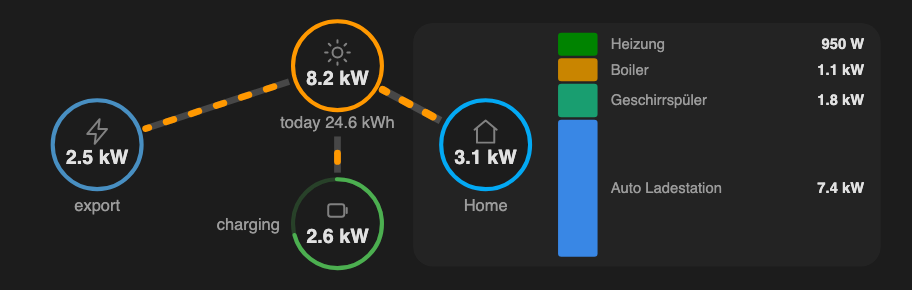
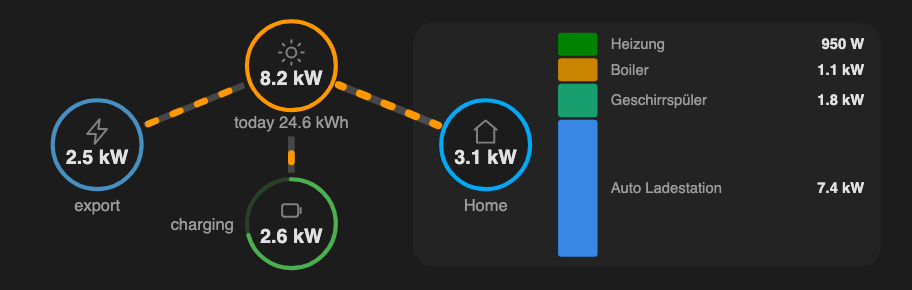
v0.9.1: centre pv/battery between grid and house
At cx=188 the generation column sat 28px right of true centre — 92px of
clear space to the grid ring but only 36px to the house. Move pv/battery
to cx=160, the exact midpoint, giving 64px on both sides.

Side benefit: the battery ring gains real separation from the group
panel, which read as crowded at the old position.

Verified no label collisions: battery sub-label clears the grid ring by
21.5px worst case ("Batterie"), the PV daily-yield label by 56px while
staying 39px clear of the panel.

Changed region(s): [[0.1535, 0.0621, 0.4912, 0.931]]

diff --git a/compact-power-flow-card.js b/compact-power-flow-card.js
@@ -58,7 +58,7 @@
  * current charge/discharge power (no percentage is displayed).
  */
 
-const VERSION = "0.9.0";
+const VERSION = "0.9.1";
 
 // Consumer-column palette, shared with power-pie-card (CVD-safe hue order —
 // do not reorder).
@@ -69,11 +69,14 @@ const PALETTE_DARK = ["#3987e5", "#199e70", "#c98500", "#008300", "#9085e9", "#e
 // battery) is packed into the left ~45% so the house + consumer panel can
 // take the rest: consumer names are the content that actually needs width.
 const NODE = {
-  pv: { cx: 188, cy: 32, r: 27 },
+  // pv/battery sit at the exact midpoint between grid and house (64px of
+  // clear ring-to-ring gap on either side), so the generation side reads as
+  // one evenly spaced group rather than drifting toward the panel
+  pv: { cx: 160, cy: 32, r: 27 },
   grid: { cx: 42, cy: 80, r: 27 },
   // centred in the panel's left region (17px clear either side of the ring)
   house: { cx: 278, cy: 80, r: 27 },
-  battery: { cx: 188, cy: 128, r: 27 },
+  battery: { cx: 160, cy: 128, r: 27 },
 };
 
 // Narrowest an active flow line ever draws (SVG units). The smallest flow on
